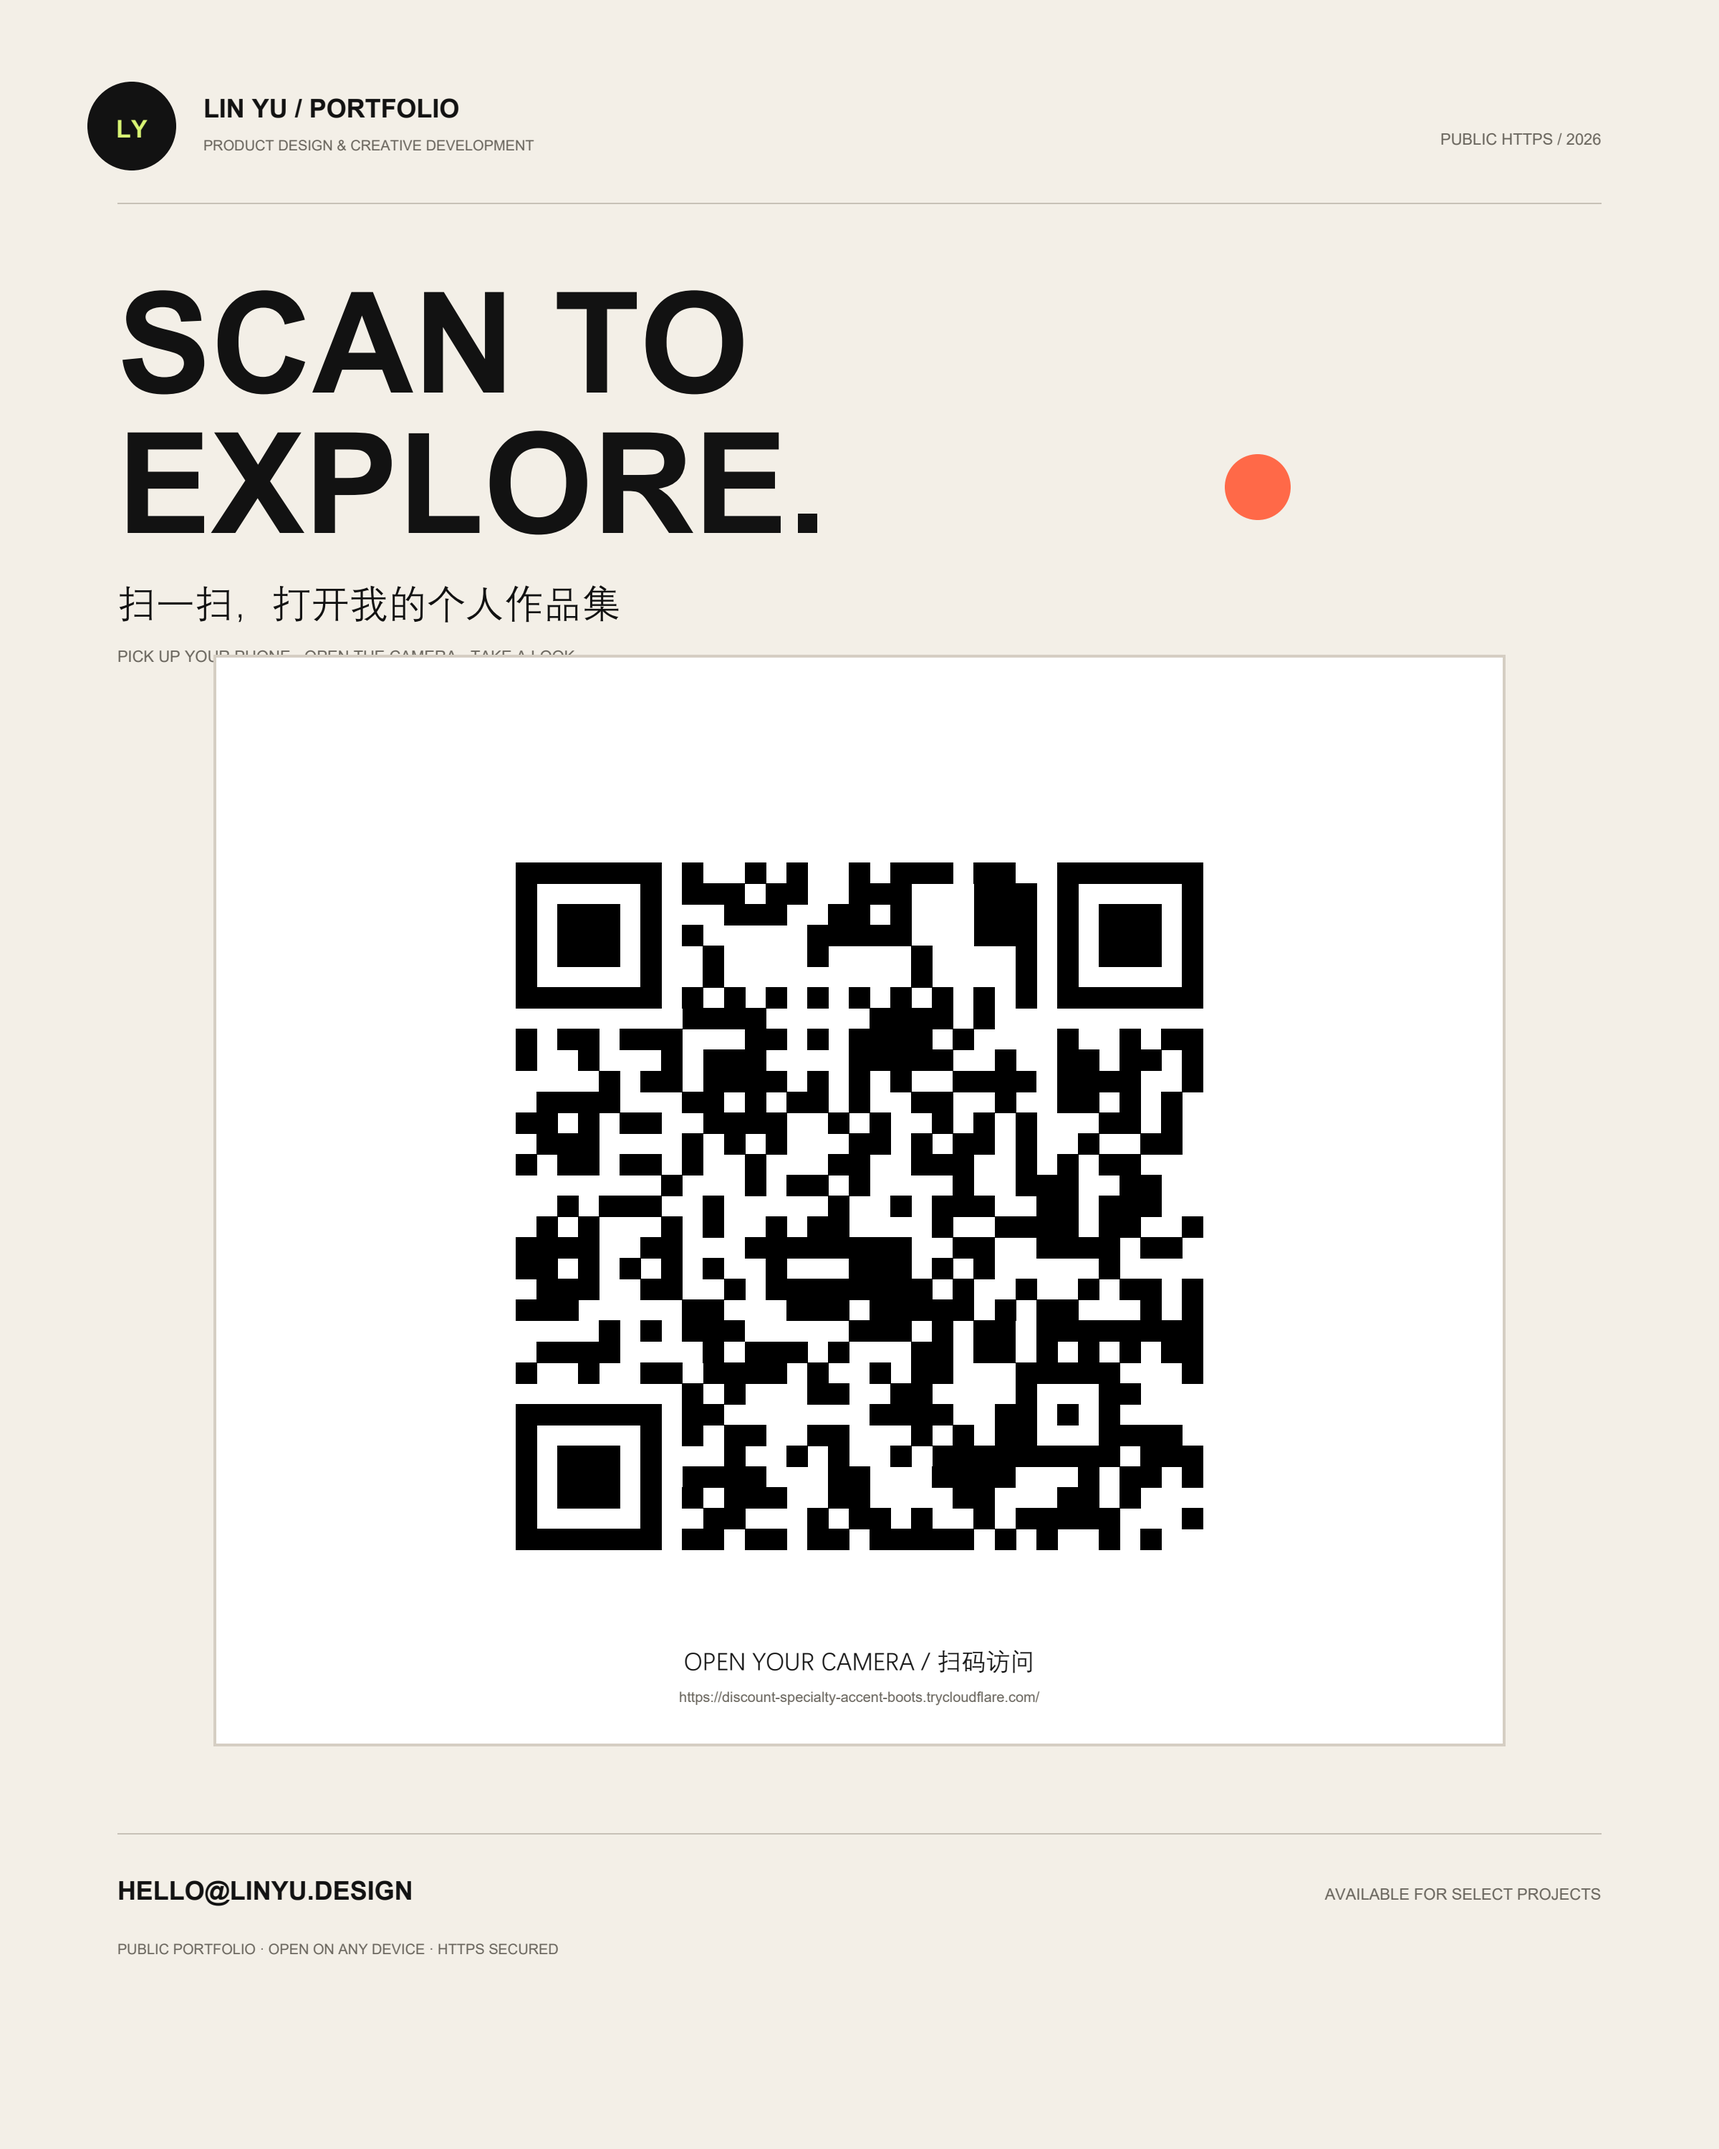
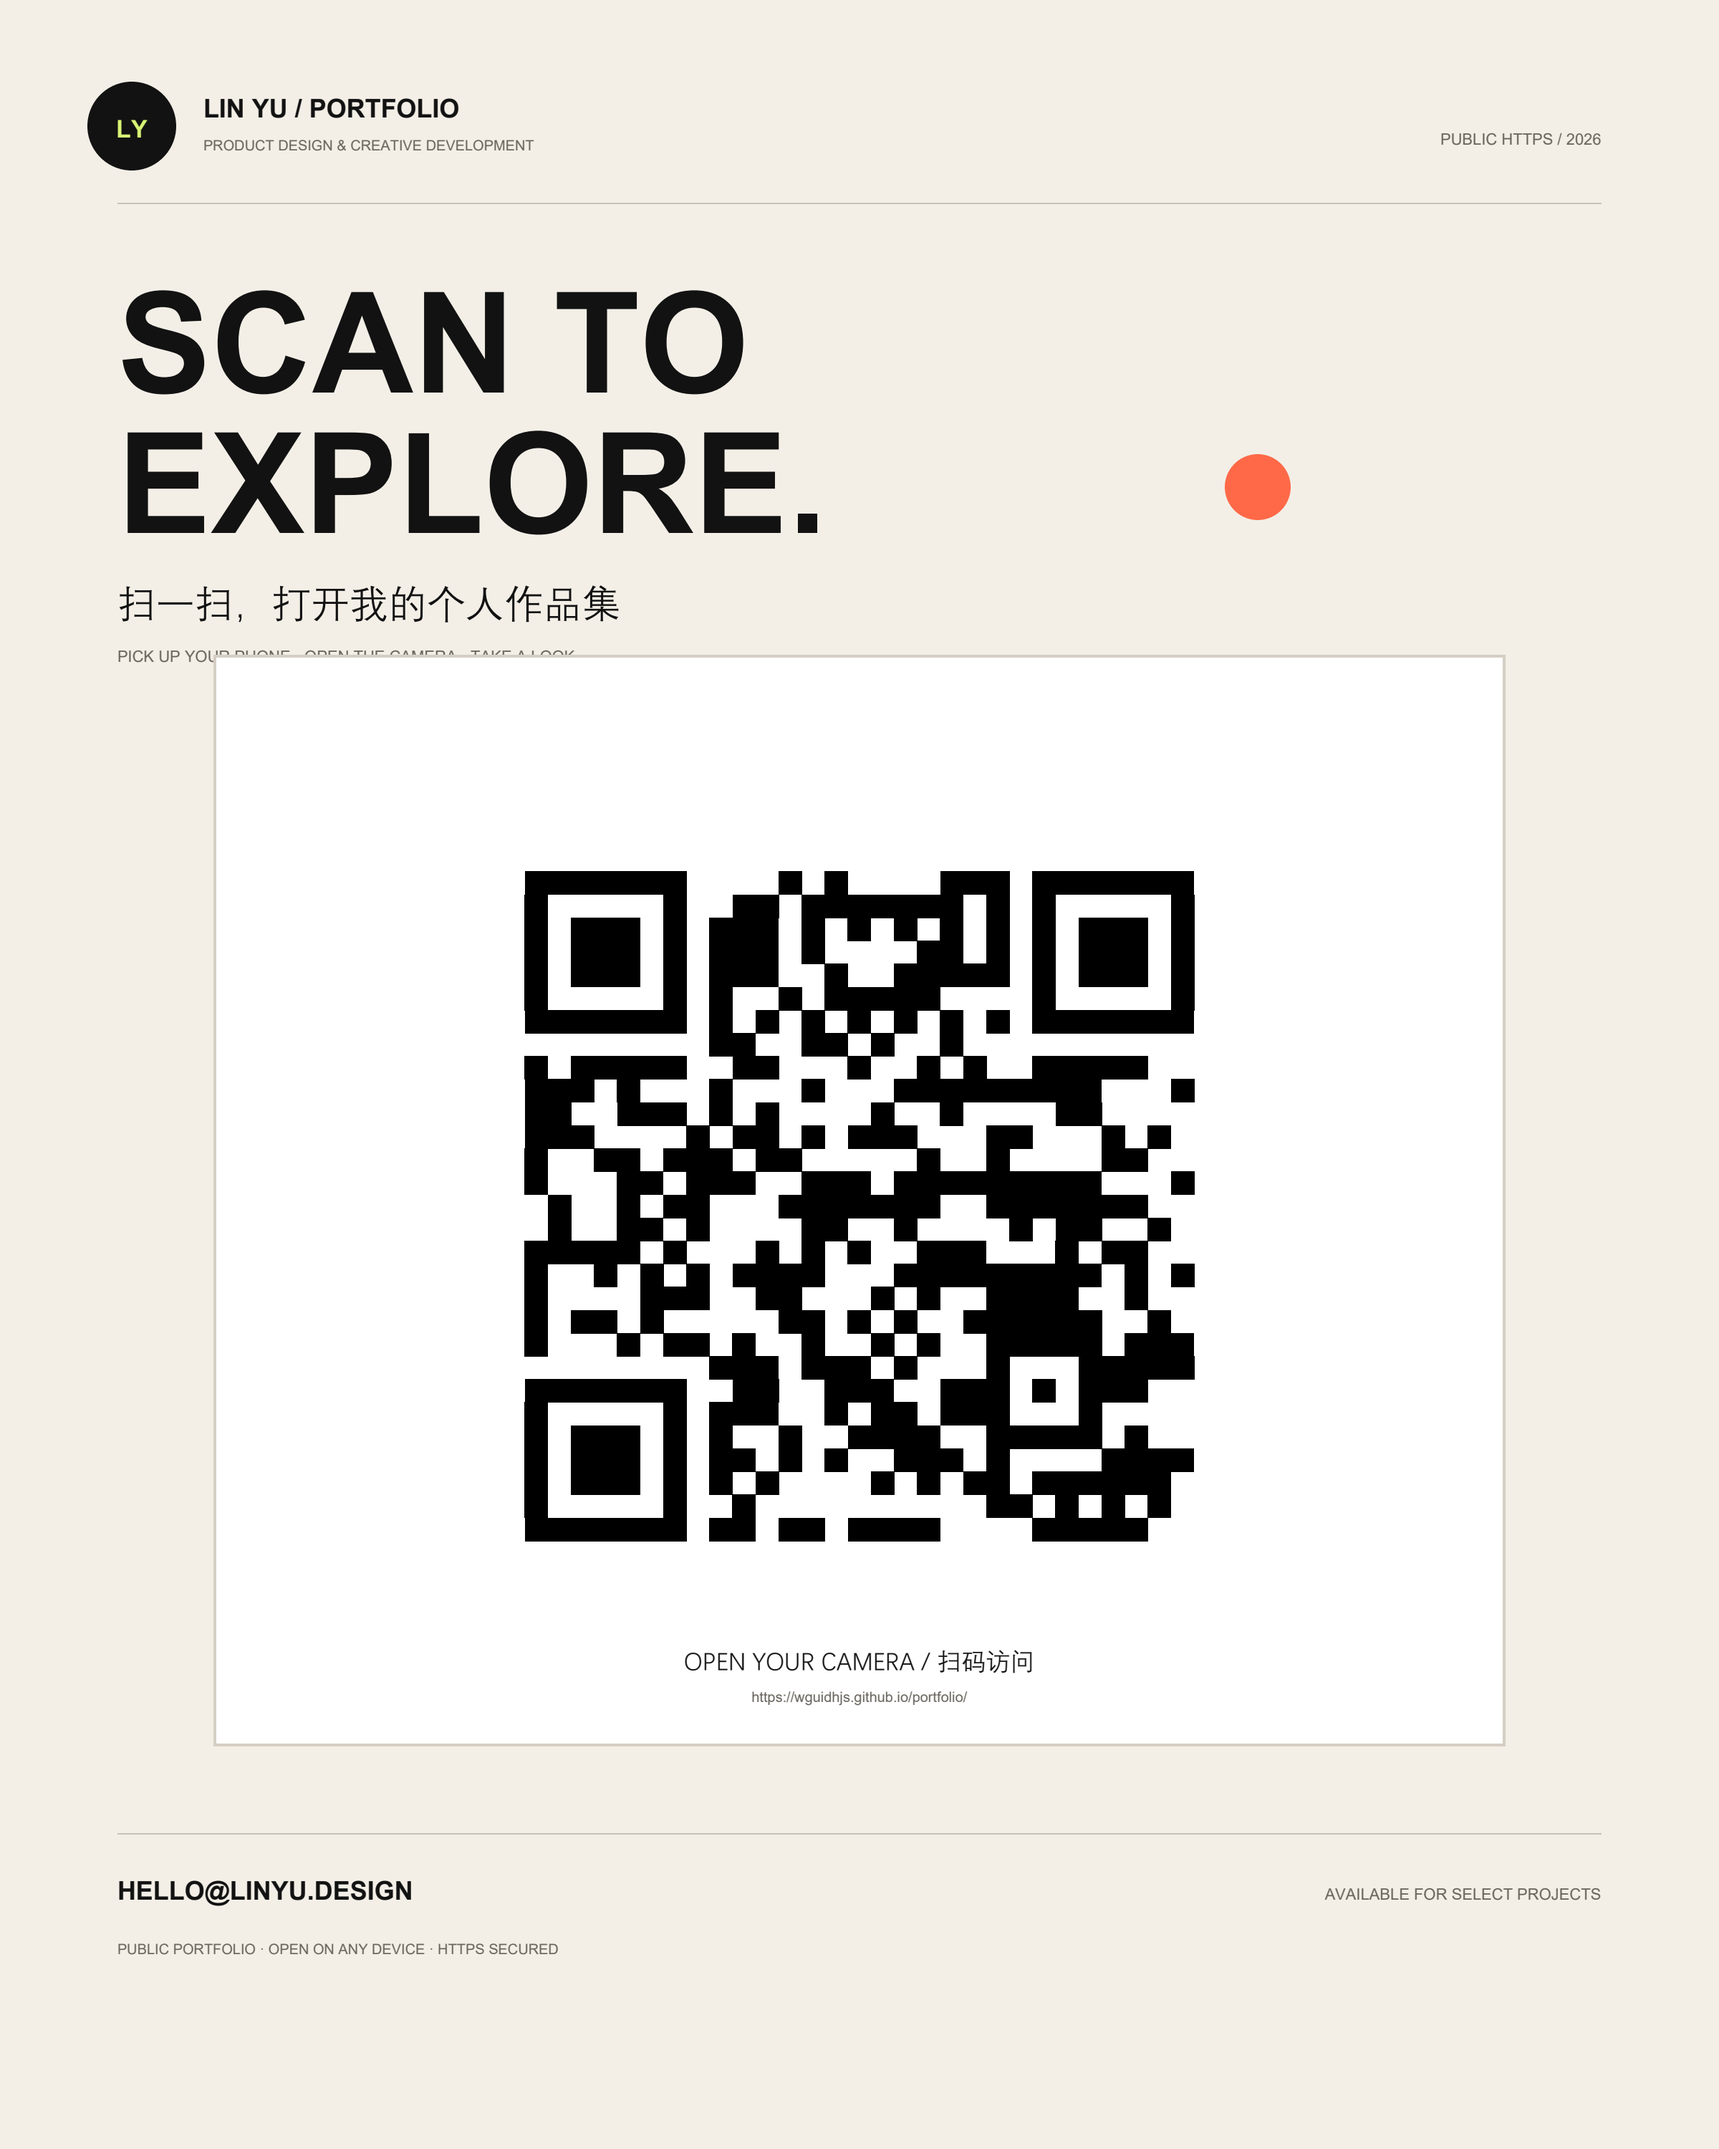
Update permanent public QR code

Changed region(s): [[0.2812, 0.403, 0.7188, 0.744], [0.4688, 0.775, 0.5625, 0.806]]

diff --git a/README.md b/README.md
@@ -2,4 +2,6 @@
 
 林屿的个人作品集网站，使用原生 HTML、CSS 和 JavaScript 构建。
 
-公开站点由 GitHub Pages 托管。网站包含响应式首页、项目筛选、案例详情、关于、经历和联系方式。
+公开站点：https://wguidhjs.github.io/portfolio/
+
+网站由 GitHub Pages 永久托管，包含响应式首页、项目筛选、案例详情、关于、经历和联系方式。
